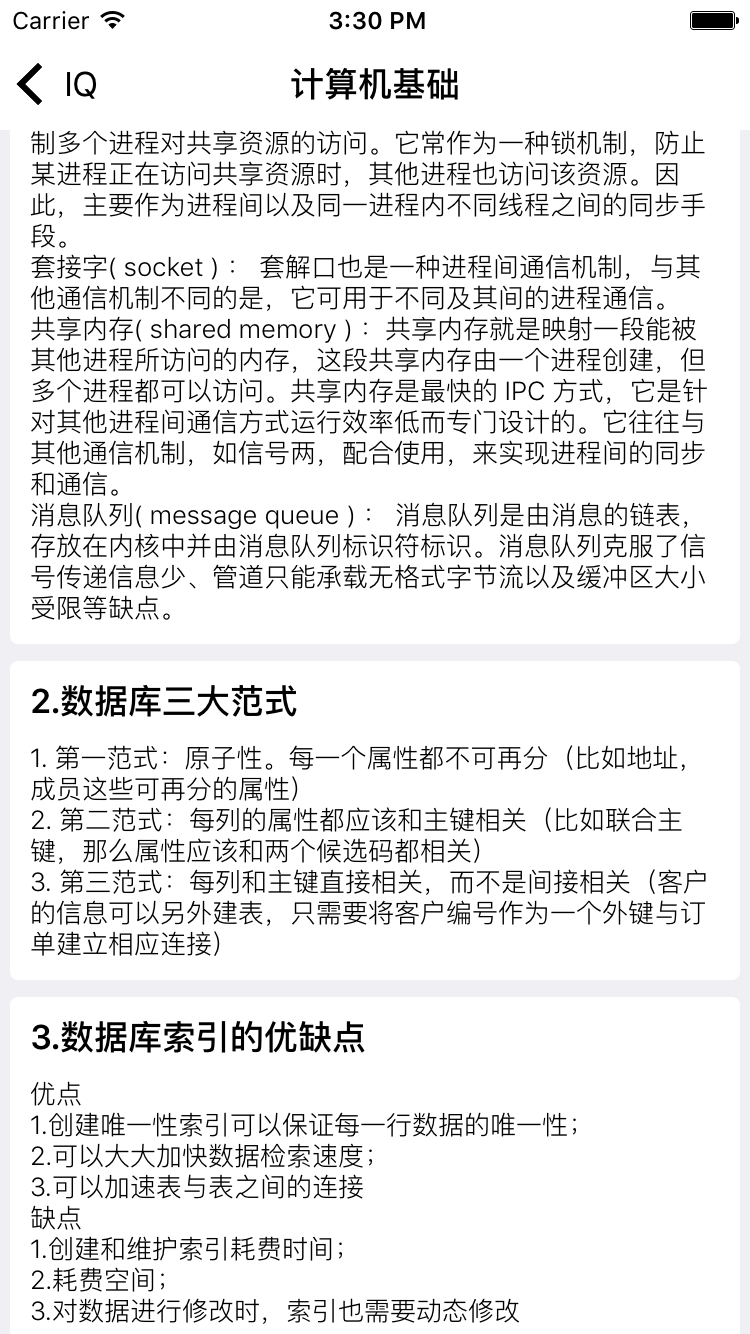
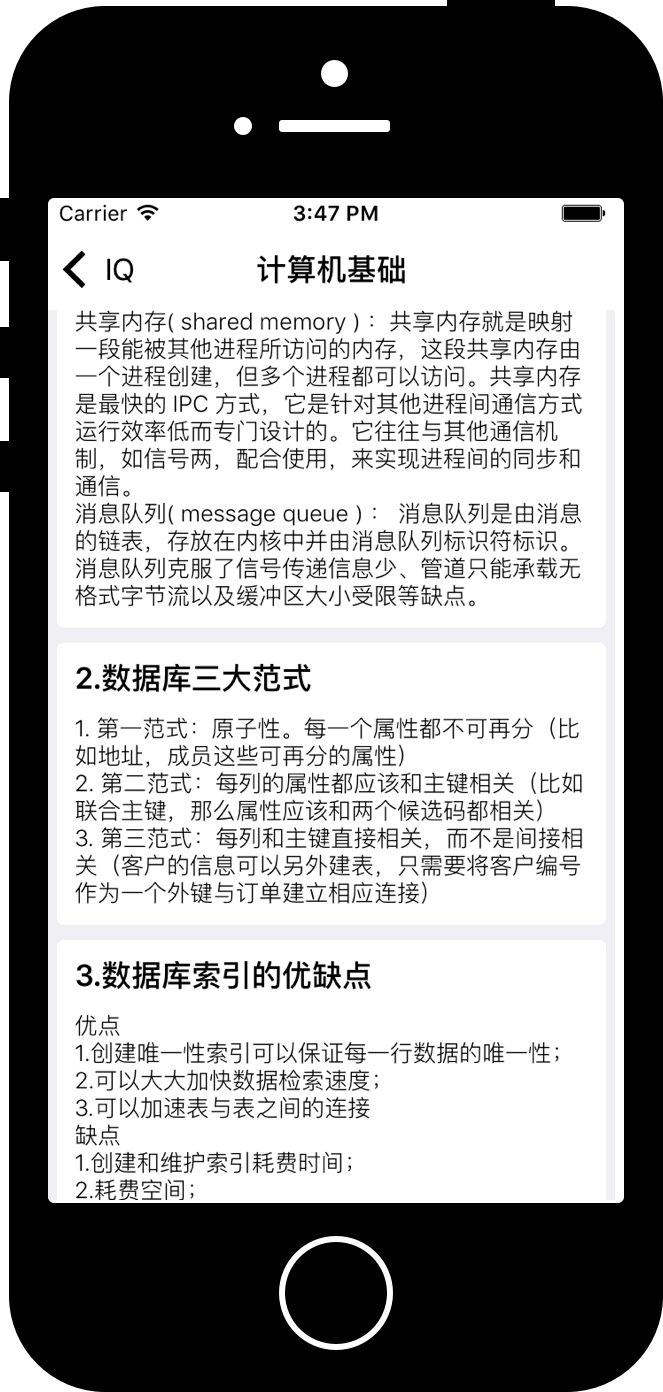
update imgs

diff --git a/README.md b/README.md
@@ -4,7 +4,11 @@ IQ is an awesome app owning various interview questions for jobseekers. The back
 
 ## Preview
 
+Master
+
 ![图片名](https://raw.githubusercontent.com/litsunny/IQ/master/ScreenShot/01.png)
+
+Detail
 
 ![图片名](https://raw.githubusercontent.com/litsunny/IQ/master/ScreenShot/02.png)
 
